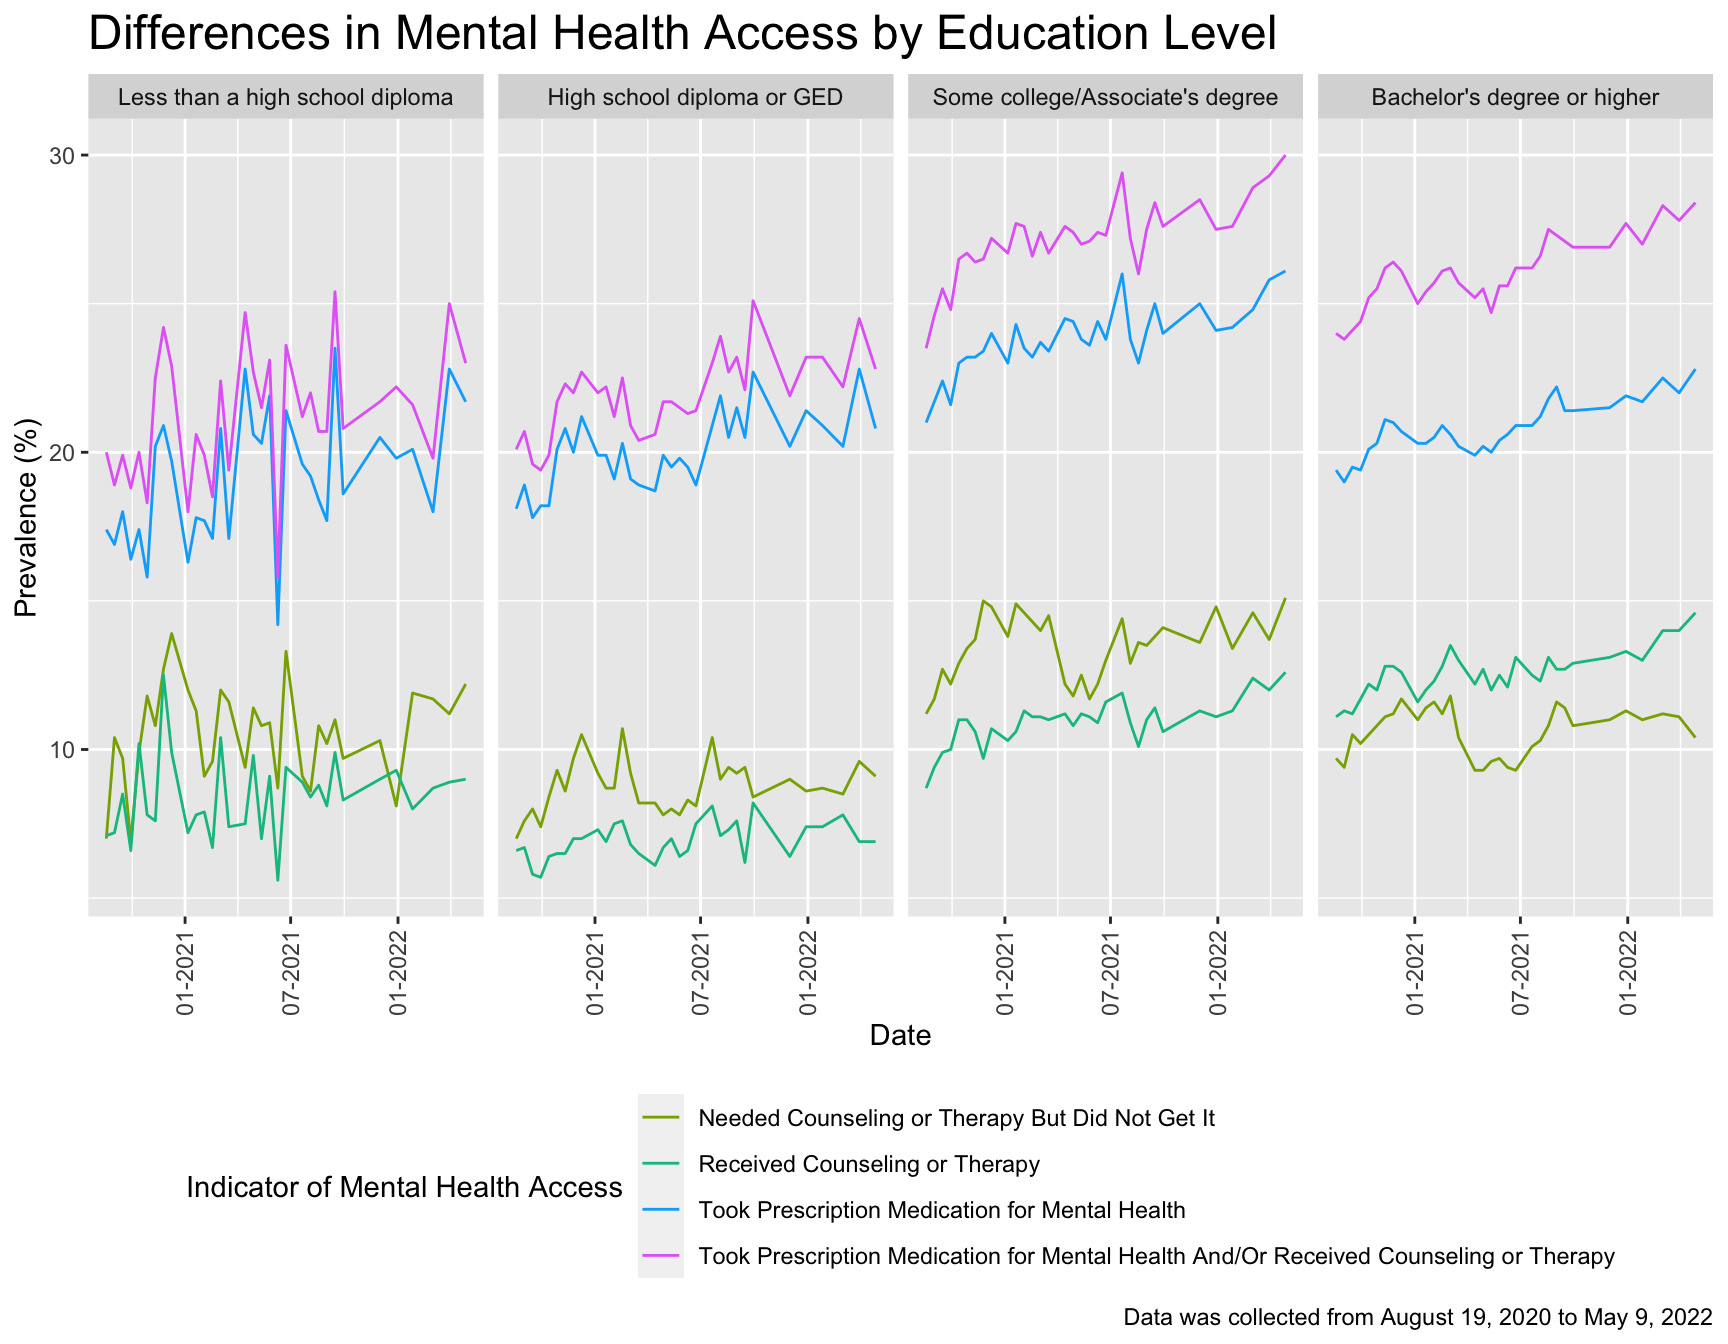
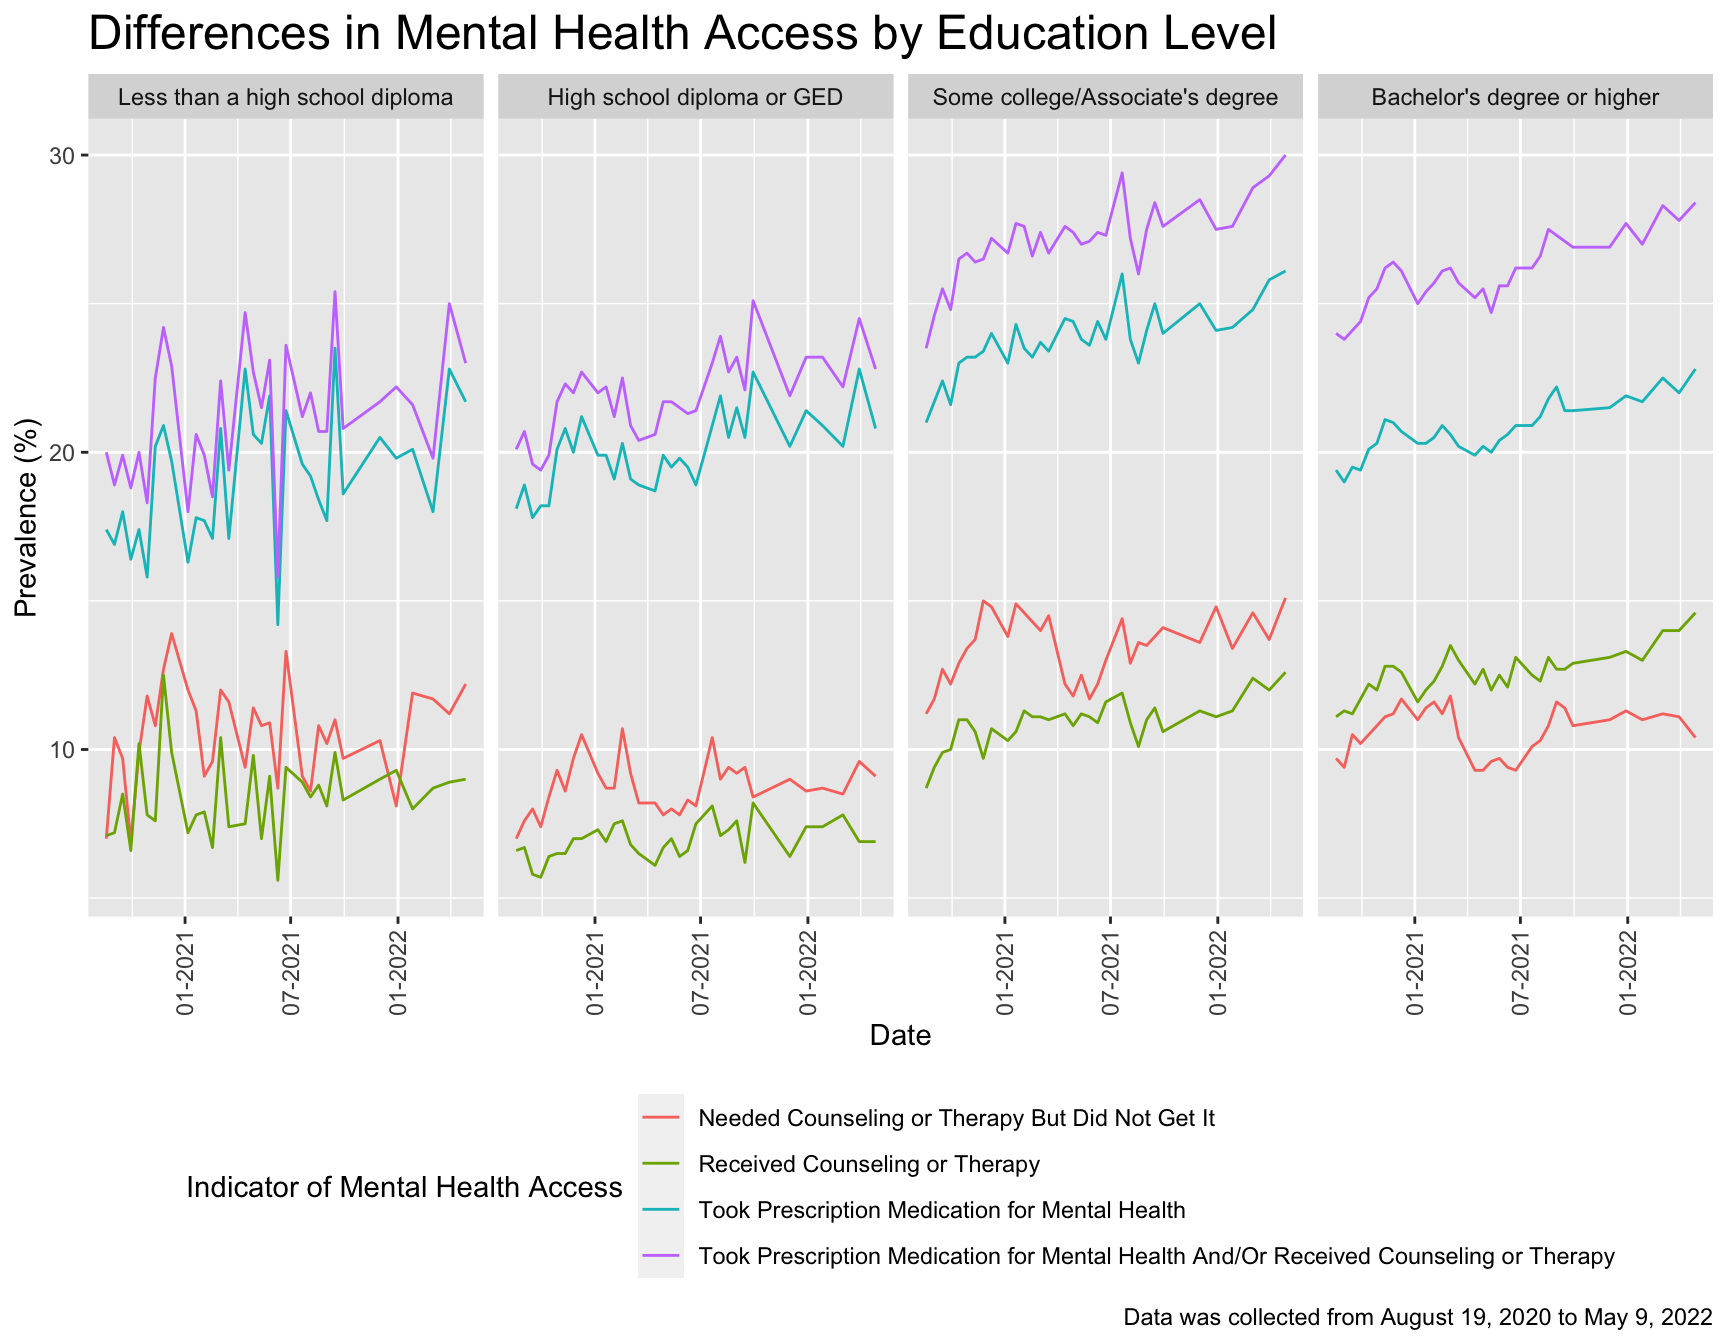
changed colors to magma

diff --git a/eda_demographic.html b/eda_demographic.html
@@ -13,7 +13,7 @@
 
 <title>Demograhic-Level Exploratory Data Analysis (EDA)</title>
 
-<script src="site_libs/header-attrs-2.25/header-attrs.js"></script>
+<script src="site_libs/header-attrs-2.24/header-attrs.js"></script>
 <script src="site_libs/jquery-3.6.0/jquery-3.6.0.min.js"></script>
 <meta name="viewport" content="width=device-width, initial-scale=1" />
 <link href="site_libs/bootstrap-3.3.5/css/united.min.css" rel="stylesheet" />
@@ -420,7 +420,6 @@ age_plot |&gt;
     plot.title = element_text(size = 18),
     axis.text.x = element_text(angle = 90, vjust = 0.5, hjust = 1)  # Rotate x-axis labels vertically
   ) +
-  scale_color_hue(h = c(100, 300)) +
   guides(color = guide_legend(nrow = 4)) # Adding the legend guide adjustment</code></pre>
 <p><img src="eda_demographic_files/figure-html/age-1.png" width="90%" /></p>
 <p><strong>Main findings:</strong></p>
@@ -469,7 +468,6 @@ ed_plot=
     plot.title = element_text(size = 18),
     axis.text.x = element_text(angle = 90, vjust = 0.5, hjust = 1)  # Rotate x-axis labels vertically
   ) +
-  scale_color_hue(h = c(100, 300)) +
   guides(color = guide_legend(nrow = 4)) # Adding the legend guide adjustment
 
 #View the education plot
